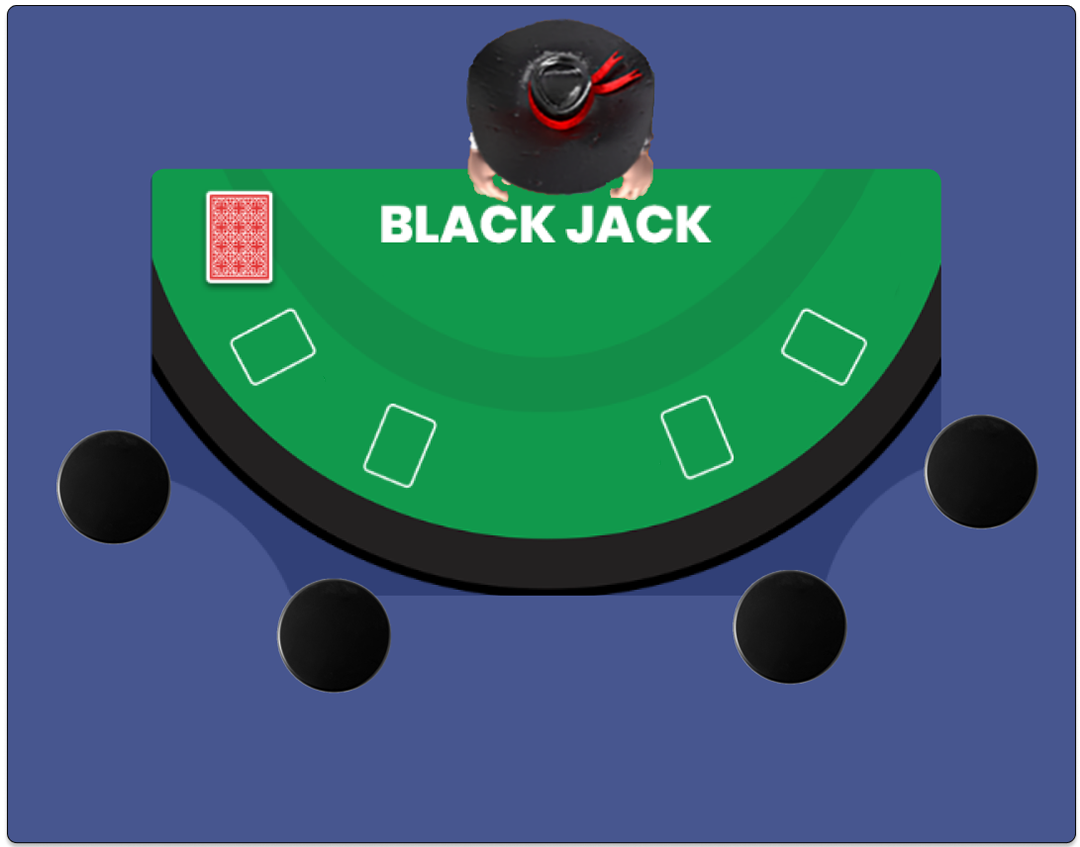
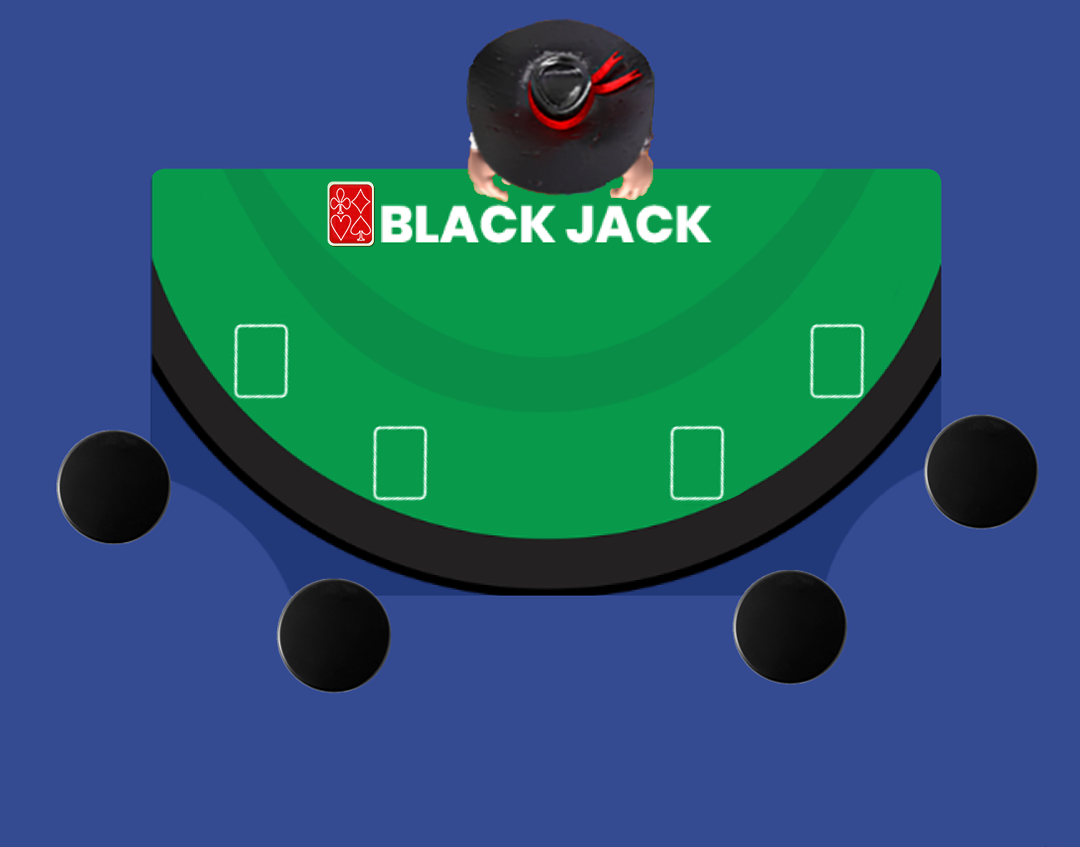
fix card placing, add option to clear cards from table

diff --git a/blackjack-base-controllers/src/main/java/com/pio/startup/BaseControllerService.java b/blackjack-base-controllers/src/main/java/com/pio/startup/BaseControllerService.java
@@ -24,7 +24,6 @@ import javafx.scene.text.Text;
 import javafx.scene.transform.Rotate;
 import javafx.stage.Stage;
 import javafx.util.Duration;
-
 import java.io.IOException;
 import java.net.URL;
 import java.util.ArrayList;
@@ -32,14 +31,13 @@ import java.util.List;
 import java.util.Objects;
 import java.util.ResourceBundle;
 
-
 public class BaseControllerService implements Initializable {
     public static int MAX_PLAYERS = 4;
+  
+    public static int DECK_CARD_POS_X = 326;
 
-    public static int DECK_CARD_POS_X = 4;
-
-    public static int DECK_CARD_POS_Y = 4;
-
+    public static int DECK_CARD_POS_Y = 185;
+  
     public static int CARD_HEIGHT = 70;
 
     public static int CARD_WIDTH = 50;
@@ -82,13 +80,15 @@ public class BaseControllerService implements Initializable {
     private TextField thirdUserName;
 
     private final List<Point> playerCardPosition = new ArrayList<>() {{
-        add(new Point(250, 350));
-        add(new Point(400, 450));
-        add(new Point(550, 450));
-        add(new Point(700, 350));
+        add(new Point(226, 357));
+        add(new Point(367, 460));
+        add(new Point(667, 460));
+        add(new Point(808, 357));
         add(new Point(500, 200));
-        add(new Point(500, 400));
+        add(new Point(535, 440));
     }};
+
+    private final List<ImageView> imageCards = new ArrayList<>();
 
     private Text[] currentBet;
 
@@ -107,9 +107,6 @@ public class BaseControllerService implements Initializable {
     Image backImage = new Image("Cards/back.png");
 
     @FXML
-    private Label gameStatus;
-
-    @FXML
     private Circle firstPlayerCircle;
 
     @FXML
@@ -122,6 +119,7 @@ public class BaseControllerService implements Initializable {
     private Circle fourthPlayerCircle;
 
     private final BaseModelService baseModelService = new BaseModelService();
+
     private static final String[] userName = new String[MAX_PLAYERS];
 
 
@@ -149,6 +147,9 @@ public class BaseControllerService implements Initializable {
 
     public void moveCardToHand(Object player) {
 
+        ImageView back = new ImageView(backImage);
+        imageCards.add(back);
+
         int playerHandPositionX;
         int playerHandPositionY;
         String cardName;
@@ -166,14 +167,14 @@ public class BaseControllerService implements Initializable {
         /*else
         {
             Point playerHandPosition = playerCardPosition.get(4);
-            playerHandPositionX = playerHandPosition.getX() + ((Croupier) player).getCardsAmount() * 10;
-            playerHandPositionY = playerHandPosition.getY() - ((Croupier) player).getCardsAmount() * 20;
+            playerHandPositionX = playerHandPosition.getX() + ((Croupier) player).getCardsAmount() * 50;
+            playerHandPositionY = playerHandPosition.getY();
             cardName = ((Croupier) player).getLastCard().getCardType() + "_OF_" + ((Croupier) player).getLastCard().getSuit();
+            ((Croupier) player).addCardImages(back);
         }*/
 
         final boolean[] isFrontShowing = {true};
 
-        ImageView back = new ImageView(backImage);
         back.setFitWidth(CARD_WIDTH);
         back.setFitHeight(CARD_HEIGHT);
 
@@ -221,6 +222,33 @@ public class BaseControllerService implements Initializable {
         moveToMainStarterView();
     }
 
+    public void clearAllCards(){
+        for (int i = 0; i < imageCards.size(); i++){
+            ImageView imageView = imageCards.get(i);
+            gamePane.getChildren().remove(imageView);
+        }
+    }
+
+    public void clearCardsForSpecificPlayer(Object player) {
+        List<ImageView> playerCards;
+        if (player instanceof Player) {
+            playerCards = ((Player) player).getCardImages();
+        }
+        else{
+            return;
+        }
+
+        // jak bedzie krupier to podmienic else ;))
+        /* else {
+            playerCards = ((Croupier) player).getCardImages();
+        }*/
+
+        for (int i = 0; i < playerCards.size(); i++) {
+            ImageView imageView = playerCards.get(i);
+            gamePane.getChildren().remove(imageView);
+        }
+    }
+
     public void hit(MouseEvent event) {
         if (betSum == 0) {
             return;
@@ -229,9 +257,9 @@ public class BaseControllerService implements Initializable {
         Player player = baseModelService.returnPlayer(currentPlayerIndex);
         player.placeBet(betSum);
 
-
         if (player.getCardsAmount() == 0) {
             player.takeCard();
+            moveCardToHand(player);
         }
 
         player.takeCard();
@@ -240,6 +268,8 @@ public class BaseControllerService implements Initializable {
     }
 
     public void leaveGame() throws IOException {
+
+        clearCardsForSpecificPlayer(baseModelService.returnPlayer(currentPlayerIndex));
 
         Player player = baseModelService.returnPlayer(currentPlayerIndex);
         currentBet[currentPlayerIndex].setText("");
@@ -468,7 +498,6 @@ public class BaseControllerService implements Initializable {
     public void displayIsPlaying(int currentPlayer) {
 
         if (currentPlayer < MAX_PLAYERS) {
-            gameStatus.setText(userName[currentPlayer] + " is playing");
 
             Light.Distant light = new Light.Distant();
             light.setAzimuth(-135.0);

diff --git a/blackjack-base-models/src/main/java/com/pio/models/Player.java b/blackjack-base-models/src/main/java/com/pio/models/Player.java
@@ -1,11 +1,18 @@
 package com.pio.models;
 
+import javafx.scene.image.ImageView;
+
+import java.awt.*;
+import java.util.ArrayList;
+import java.util.List;
+
 public class Player {
     private final int MAX_CARDS = 11;
     private int accountBalance;
     private int betAmount;
     private boolean isPlaying = true;
     private final Card[] cards = new Card[MAX_CARDS];
+    private List<ImageView> cardImages = new ArrayList<>();
     private int cardsAmount = 0;
     private int sumOfCardsValue = 0;
     private boolean isStanding = false;
@@ -84,5 +91,13 @@ public class Player {
 
     public void setSumOfCardsValue(int sumOfCardsValue) {
         this.sumOfCardsValue = sumOfCardsValue;
+    }
+
+    public List<ImageView> getCardImages() {
+        return cardImages;
+    }
+
+    public void addCardImages(ImageView newCardImages) {
+        cardImages.add(newCardImages);
     }
 }
